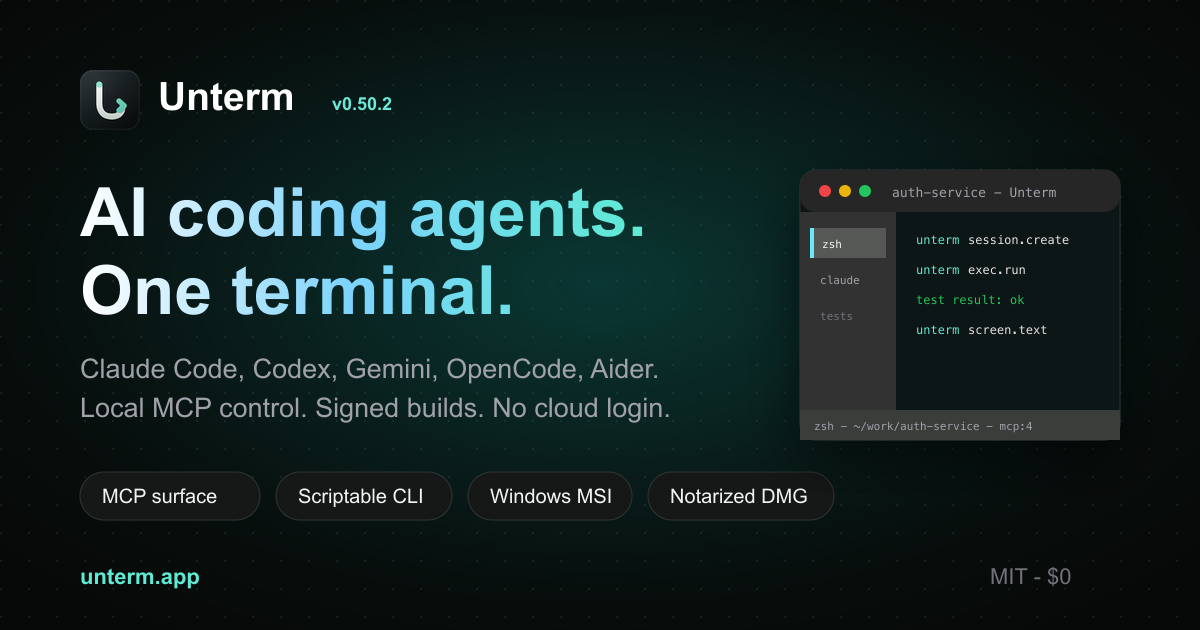
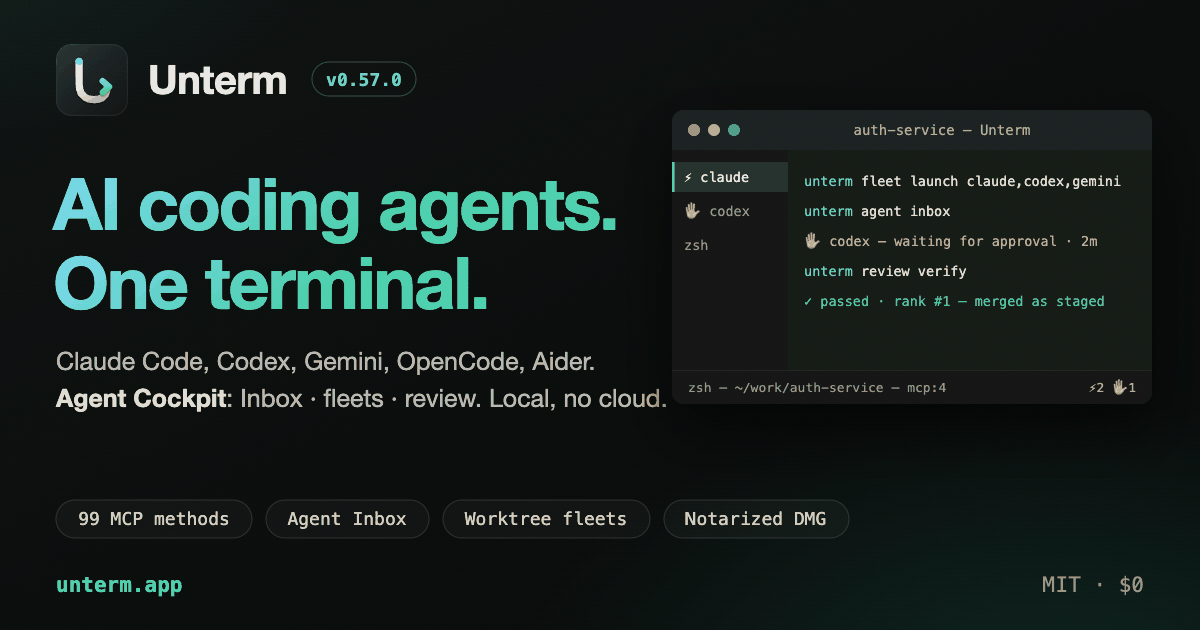
chore: release v0.57.0
Fleet 验证闭环(verify/rank/retry/门禁 merge)+ command-loop 新品牌
+ 侧栏项目分组导航。官网/README/参考文档对齐 99 方法新 surface,
og 卡与全套 favicon 换新 mark。

diff --git a/web/src/lib/stats.ts b/web/src/lib/stats.ts
@@ -41,7 +41,7 @@ export interface Stats {
 // `releases/latest/download/Unterm-macos-${stats.release}.dmg`; if this
 // fallback drifts from the published asset names, users hit a 404 when the
 // GitHub API fetch fails at build time.
-const FALLBACK: Stats = { stars: null, downloads: null, release: "v0.56.0" };
+const FALLBACK: Stats = { stars: null, downloads: null, release: "v0.57.0" };
 
 let cache: Promise<Stats> | null = null;
 

diff --git a/web/src/pages/docs/mcp-reference.md b/web/src/pages/docs/mcp-reference.md
@@ -6,7 +6,7 @@ kicker: Docs / MCP reference
 date: 2026-07-20
 ---
 
-This page documents every JSON-RPC method an MCP client can call against a running Unterm instance — 97 methods across 21 namespaces as of v0.55. The dispatch table lives in `wezterm-gui/src/mcp/handler.rs`; the connection handshake is in `wezterm-gui/src/mcp/server.rs`. Both are MIT-licensed in the public repo. For a machine-readable version of this page, call [`meta.surface`](#meta) or run `unterm-cli reference` in any shell.
+This page documents every JSON-RPC method an MCP client can call against a running Unterm instance — 99 methods across 21 namespaces as of v0.55. The dispatch table lives in `wezterm-gui/src/mcp/handler.rs`; the connection handshake is in `wezterm-gui/src/mcp/server.rs`. Both are MIT-licensed in the public repo. For a machine-readable version of this page, call [`meta.surface`](#meta) or run `unterm-cli reference` in any shell.
 
 For higher-level patterns (director/worker, multi-pane orchestration, recording for review) see the [agent integration guide](agent-integration). This page is the wire-level companion — the doc you check when your client got back `-32603` and you want to know which field you fat-fingered.
 
@@ -894,7 +894,7 @@ Every tracked agent joined with its tab/window location, sorted waiting-first, s
 
 Run one task across N agents in N isolated git worktrees, one tab each. `fleet.launch` adds a worktree + branch per member beside the repo (`../<repo>.fleet/<fleet-id>-<n>/`, branch `fleet/<fleet-id>-<n>`), opens a tab per member, and types the agent's launch command into the fresh shell. Fleets persist in `~/.unterm/fleets.json`, so the Review page and `fleet.clean` survive a restart — panes dying does *not* remove a fleet; the worktrees hold the work product until every member is merged or discarded.
 
-`fleet.launch` and `fleet.clean` are audited write operations — they appear in `session.audit_log` — and member panes are subject to the same PTY-write gate as `session.input` (the launch command is typed into a pane).
+`fleet.launch`, `fleet.retry`, and `fleet.clean` are audited write operations — they appear in `session.audit_log` — and member panes are subject to the same PTY-write gate as `session.input` (the launch command is typed into a pane).
 
 ### `fleet.launch`
 
@@ -923,7 +923,7 @@ Built-in launch commands: `claude <task>`, `codex <task>`, `gemini -i <task>`, `
  ]}
 ```
 
-`checkpoint` is the base HEAD sha — the review baseline for `review.diff`. A member whose tab failed to spawn gets `pane_id: null` but keeps its worktree.
+`checkpoint` is the base HEAD sha — the review baseline for `review.diff`. A member whose tab failed to spawn gets `pane_id: null` but keeps its worktree — relaunch it with `fleet.retry`.
 
 ### `fleet.list`
 
@@ -931,7 +931,7 @@ All fleets with member branches, worktrees, and review states.
 
 **Params:** none.
 
-**Returns:** `{ fleets: [...] }` — same fleet shape as `review.list` below, i.e. each member carries `n` (1-based index), `agent`, `branch`, `worktree`, `checkpoint`, `review` (`"pending"` / `"merged"` / `"discarded"`), `pane_id`, and `agent_state` (live cockpit state, or `null` if the pane is gone).
+**Returns:** `{ fleets: [...] }` — same fleet shape as `review.list` below, i.e. each member carries `n` (1-based index), `agent`, `branch`, `worktree`, `checkpoint`, `review` (`"pending"` / `"merged"` / `"discarded"`), `pane_id`, `agent_state` (live cockpit state, or `null` if the pane is gone), `attempt` (launch count, incremented by `fleet.retry`), `last_started_at`, and `last_launch_error` (most recent pane-spawn failure; `null` after a successful launch/retry).
 
 ### `fleet.clean`
 
@@ -941,13 +941,33 @@ Remove a fleet: kill surviving panes, remove worktrees and branches, drop the re
 
 **Returns:** `{ ok: true, id }`
 
+### `fleet.retry`
+
+Restart a failed or stalled member in its **existing** isolated worktree — after a crashed agent, a closed tab, or a member whose tab never spawned. The worktree, branch, and checkpoint are retained, along with every committed, staged, unstaged, and untracked change; only the pane association is replaced, so a retry never deletes or resets work. The member's previous pane (if any) is closed before the new agent starts, so two processes never edit the same worktree concurrently. Audited.
+
+Only `pending` members can be retried — `merged`/`discarded` ones error. The call also errors if the worktree no longer exists or is no longer on the member's fleet branch. The new attempt is persisted *before* the tab is spawned: if spawning fails, the member shows `pane_id: null` with the error in `last_launch_error`, and can simply be retried again.
+
+**Params:**
+
+| Name | Type | Required | Description |
+|---|---|---|---|
+| `fleet_id` | string | yes | Fleet id |
+| `member` | string | yes | 1-based member index (`"2"`) or branch name / suffix |
+
+**Returns:** the updated member record — the `fleet.launch` member shape plus `attempt` (launch count, incremented on every retry), `last_started_at` (RFC 3339 timestamp of the latest launch/retry), and `last_launch_error` (`null` after a successful retry).
+
+```json
+{"jsonrpc":"2.0","id":12,"method":"fleet.retry",
+ "params":{"fleet_id":"fix-the-login-bug","member":"1"}}
+```
+
 ---
 
 ## Review
 
 Checkpoints, diffs, rollback, and merge for agent-produced changes. Two kinds of baseline feed this namespace: fleet members diff against their worktree's start commit, and "loose" (non-fleet) agent runs get automatic checkpoints — whenever the cockpit sees an agent start working in a repo, it snapshots the entire worktree (tracked + untracked) as a dangling commit via a temporary index, without ever touching HEAD, the real index, or the files. The last 20 checkpoints per repo are remembered in `~/.unterm/checkpoints.json`, debounced to one per minute.
 
-`review.rollback` and `review.merge` are **audited write operations** — every call lands in `session.audit_log` with the repo/fleet detail, and both mutate the working tree, so treat them with the same care as any policy-gated write. `review.rollback` is destructive by design; confirm with the user before calling it.
+`review.rollback`, `review.merge`, and `review.verify` are **audited operations** — every call lands in `session.audit_log` with the repo/fleet detail. `review.rollback` and `review.merge` mutate the working tree, so treat them with the same care as any policy-gated write; `review.verify` executes a command in the member's worktree. `review.rollback` is destructive by design; confirm with the user before calling it.
 
 ### `review.list`
 
@@ -955,7 +975,7 @@ Review overview — everything the Review page needs in one call.
 
 **Params:** none.
 
-**Returns:** `{ fleets: [...], checkpoints: [{ repo, checkpoints: [{ sha, at, agent, pane_id }] }] }` — fleets in the shape described under `fleet.list`, checkpoints newest-first per repo.
+**Returns:** `{ fleets: [...], checkpoints: [{ repo, checkpoints: [{ sha, at, agent, pane_id }] }] }` — fleets in the shape described under `fleet.list`, checkpoints newest-first per repo. Unlike `fleet.list`, each member is additionally enriched with its latest `verification` record (or `null`), a deterministic `score` (verification status dominates; smaller diffs break ties), and a 1-based `rank` within the fleet — this is also how you poll a `review.verify` run for completion.
 
 ### `review.diff`
 
@@ -977,6 +997,41 @@ Line-level diff of a worktree against a checkpoint. Untracked files are synthesi
  "params":{"fleet_id":"fix-the-login-bug","member":"1"}}
 ```
 
+### `review.verify`
+
+Run a validation command asynchronously in a fleet member's isolated worktree — the evidence behind the `review.merge` gate. With no `command`, a conventional one is inferred from a small, auditable set of project markers; Unterm never executes scripts discovered by scanning source files:
+
+| Marker | Inferred command |
+|---|---|
+| `Cargo.toml` | `cargo test` |
+| `go.mod` | `go test ./...` |
+| `pnpm-lock.yaml` / `yarn.lock` / `package-lock.json` or `package.json` | `pnpm test` / `yarn test` / `npm test` — only if `package.json` has a non-empty `scripts.test` |
+| `uv.lock` | `uv run pytest` |
+| `pyproject.toml`, `pytest.ini`, or `setup.cfg` | `python -m pytest` |
+| `pom.xml` | `mvn test` |
+| `gradlew` / `gradlew.bat` | `./gradlew test` (`gradlew.bat test` on Windows) |
+| `*.sln` / `*.csproj` | `dotnet test` |
+
+If nothing matches, the call errors and asks for an explicit command.
+
+The call returns immediately with a `pending` record; the command runs on a worker thread in the worktree (via `sh -c` on Unix, `cmd.exe /C` on Windows). Status flows `pending → running → passed | failed | timed_out` — `passed` means exit code 0. On timeout the **entire process tree** is killed (process-group `SIGKILL` on Unix, `taskkill /T /F` on Windows), so hung test suites can't leak children. The captured stdout+stderr log is bounded to the last 64 KiB. Records persist in `~/.unterm/verifications.json`; runs left in-flight when Unterm exits are marked `failed` on the next start. Audited.
+
+**Params:**
+
+| Name | Type | Required | Description |
+|---|---|---|---|
+| `fleet_id` | string | yes | Fleet id |
+| `member` | string | yes | 1-based member index or branch name / suffix |
+| `command` | string | no | Explicit validation command; takes precedence over inference. Must be non-empty |
+| `timeout_secs` | number | no | Default 900 (15 min), clamped to 1–7200 (2 h) |
+
+**Returns:** the verification record: `{ id, fleet_id, member, worktree, command, inferred, status, exit_code, duration_ms, log, started_at, finished_at }` — `member` is normalized to the branch name, `inferred` says whether the command came from marker inference. Poll `review.list` for completion: each member there carries its latest `verification` record.
+
+```json
+{"jsonrpc":"2.0","id":13,"method":"review.verify",
+ "params":{"fleet_id":"fix-the-login-bug","member":"1","timeout_secs":600}}
+```
+
 ### `review.rollback`
 
 Restore a repo's worktree to a checkpoint: files *and* untracked state become exactly the snapshot's content (`git clean -fd` removes files that didn't exist then). Destructive for anything newer than the checkpoint — confirm first. The sha is validated before anything runs, so a typo can't half-execute. Audited.
@@ -989,9 +1044,11 @@ Restore a repo's worktree to a checkpoint: files *and* untracked state become ex
 
 Squash-merge a fleet member's branch into the base repo, leaving the result **staged, not committed** — the user owns the commit. The base repo must be clean, or the call errors. Marks the member `merged`. Audited.
 
-**Params:** `fleet_id` (string, required), `member` (string, required — index or branch name).
+**Verification gate:** a normal merge requires the member's *latest* verification (`review.verify`) to be `passed` — an unverified member, or one whose latest run is `failed`/`timed_out`/still running, errors instead of merging. `force: true` overrides the gate and merges anyway; the override is deliberately surfaced only through this audited API/CLI path (the Review UI stays gated), and the response records both the override and whatever verification record exists.
 
-**Returns:** `{ ok: true, fleet, branch, staged_in }`
+**Params:** `fleet_id` (string, required), `member` (string, required — index or branch name), `force` (bool, optional, default `false` — merge without a passed verification).
+
+**Returns:** `{ ok: true, fleet, branch, base_head, member_head, merged_at, staged_files, staged_in, verification, verification_forced }` — `verification` is the verification record the merge was gated on (the latest record or `null` when forced without one), `verification_forced` echoes `force`.
 
 ### `review.discard`
 
@@ -1079,8 +1136,8 @@ Machine-readable capability map: one key per namespace, each value a list of ful
   "exec": ["exec.run", "exec.send", "exec.run_wait", "exec.status", "exec.cancel"],
   "agent": ["agent.identify", "agent.whoami", ..., "agent.status", "agent.signal"],
   "cockpit": ["cockpit.inbox"],
-  "fleet": ["fleet.launch", "fleet.list", "fleet.clean"],
-  "review": ["review.list", "review.diff", "review.rollback", "review.merge", "review.discard"],
+  "fleet": ["fleet.launch", "fleet.list", "fleet.clean", "fleet.retry"],
+  "review": ["review.list", "review.diff", "review.verify", "review.rollback", "review.merge", "review.discard"],
   "...": ["..."]
 }
 ```
@@ -1202,6 +1259,7 @@ Every method, alphabetical, with one-line descriptions. Use this as a flat looku
 | `fleet.clean` | Remove a fleet's worktrees, branches, and panes once reviewed |
 | `fleet.launch` | One task × N agents × N isolated git worktrees, one tab each |
 | `fleet.list` | All fleets with member branches, worktrees, and review states |
+| `fleet.retry` | Restart a pending fleet member in its existing worktree without losing changes |
 | `ghost.debug` | Read-only ghost-text predictor state for a pane |
 | `instance.focus` | Raise this instance's window to the foreground (stub on v0.9) |
 | `instance.info` | This instance's own metadata, including `auth_token` |
@@ -1231,8 +1289,9 @@ Every method, alphabetical, with one-line descriptions. Use this as a flat looku
 | `review.diff` | Line-level diff of a worktree vs a checkpoint, untracked files included |
 | `review.discard` | Mark a fleet member's work as discarded (removed on `fleet.clean`) |
 | `review.list` | Review overview: fleets + auto checkpoints per repo |
-| `review.merge` | Squash-merge a fleet member into the base repo, leaving it staged (audited write) |
+| `review.merge` | Squash-merge a fleet member into the base repo, leaving it staged (verification-gated, audited write) |
 | `review.rollback` | Restore a repo's worktree to a checkpoint (destructive, audited write) |
+| `review.verify` | Run an async verification command in a fleet member's worktree (audited) |
 | `screen.cursor` | Cursor position and shape |
 | `screen.detect_errors` | Hardcoded error-pattern scan over the visible viewport |
 | `screen.read` | Visible viewport with absolute row indices |
@@ -1278,4 +1337,4 @@ Every method, alphabetical, with one-line descriptions. Use this as a flat looku
 | `workspace.restore` | Open new tabs from a saved workspace; supports dry-run planning |
 | `workspace.save` | Snapshot the current set of panes |
 
-That's 97 methods plus `auth.login`. If you find a method in the codebase that isn't listed here, file an issue — the `MCP_METHODS` table behind `meta.surface` (dispatched in `wezterm-gui/src/mcp/handler.rs`) is the source of truth and this page should track it.
+That's 99 methods plus `auth.login`. If you find a method in the codebase that isn't listed here, file an issue — the `MCP_METHODS` table behind `meta.surface` (dispatched in `wezterm-gui/src/mcp/handler.rs`) is the source of truth and this page should track it.

diff --git a/web/src/pages/docs/cli-reference.md b/web/src/pages/docs/cli-reference.md
@@ -708,12 +708,13 @@ Only agents actually present are touched (`~/.claude` exists, `~/.codex` exists,
 
 ## fleet
 
-Run one task across N agents in N isolated git worktrees — the Agent Cockpit's parallel-attempts primitive. `fleet launch` verifies the repo is clean, creates one branch and worktree per member, and opens one tab per member with the agent already running on the task. Backed by MCP `fleet.launch`, `fleet.list`, and `fleet.clean`.
+Run one task across N agents in N isolated git worktrees — the Agent Cockpit's parallel-attempts primitive. `fleet launch` verifies the repo is clean, creates one branch and worktree per member, and opens one tab per member with the agent already running on the task. Backed by MCP `fleet.launch`, `fleet.list`, `fleet.clean`, and `fleet.retry`.
 
 ```text
 unterm-cli fleet launch --agents <a,b,...> [--cwd DIR] <TASK...>
 unterm-cli fleet list
 unterm-cli fleet clean <ID> [--force]
+unterm-cli fleet retry  --fleet <ID> --member <N|BRANCH>
 ```
 
 ### `fleet launch`
@@ -754,14 +755,31 @@ $ unterm-cli fleet clean fix-the-login-redirect-loop
 fleet fix-the-login-redirect-loop cleaned
 ```
 
+### `fleet retry`
+
+Restarts a `pending` member's agent in its **existing** worktree. The branch, checkpoint, and every committed *and* uncommitted change are kept — only the pane is replaced. The old pane is closed before the new agent starts, so two processes never edit the same worktree concurrently. Each retry bumps the member's `attempt` counter (visible in `fleet list --json`).
+
+```sh
+$ unterm-cli fleet retry --fleet fix-the-login-redirect-loop --member 2
+retried member 2 of fix-the-login-redirect-loop (attempt 2)
+```
+
+| Flag | Purpose |
+|---|---|
+| `--fleet <ID>` | Required. Fleet id from `fleet list`. |
+| `--member <N\|BRANCH>` | Required. Member index (1-based) or branch name. |
+
+A member that is already `merged` or `discarded` cannot be retried, and the retry refuses if the worktree no longer exists or has been switched off its `fleet/…` branch. If spawning the new pane fails, the error is recorded on the member (`last_launch_error` in `--json`) and the member simply has no active pane — retry again once the cause is fixed.
+
 ## review
 
-Inspect, merge, discard, or roll back agent-produced changes. Two kinds of things live here: fleet members (from `fleet launch`) and **auto checkpoints** — whenever an agent starts working in a non-fleet pane, the cockpit snapshots that repo as a dangling commit object, debounced to one per minute per repo. The snapshot uses a temporary index, so your working tree and staging area are never touched; the checkpoint index lives at `~/.unterm/checkpoints.json`, and the whole mechanism is gated by the `cockpit_auto_checkpoint` config option. Backed by MCP `review.list`, `review.diff`, `review.merge`, `review.discard`, and `review.rollback`.
+Inspect, merge, discard, or roll back agent-produced changes. Two kinds of things live here: fleet members (from `fleet launch`) and **auto checkpoints** — whenever an agent starts working in a non-fleet pane, the cockpit snapshots that repo as a dangling commit object, debounced to one per minute per repo. The snapshot uses a temporary index, so your working tree and staging area are never touched; the checkpoint index lives at `~/.unterm/checkpoints.json`, and the whole mechanism is gated by the `cockpit_auto_checkpoint` config option. Backed by MCP `review.list`, `review.diff`, `review.verify`, `review.merge`, `review.discard`, and `review.rollback`.
 
 ```text
 unterm-cli review list
 unterm-cli review diff     (--fleet <ID> --member <N|BRANCH>) | (--repo <PATH> --from <SHA>) [--stat]
-unterm-cli review merge    --fleet <ID> --member <N|BRANCH>
+unterm-cli review verify   --fleet <ID> --member <N|BRANCH> [--command CMD] [--timeout-secs N]
+unterm-cli review merge    --fleet <ID> --member <N|BRANCH> [--force]
 unterm-cli review discard  --fleet <ID> --member <N|BRANCH>
 unterm-cli review rollback --repo <PATH> --sha <SHA> --yes
 unterm-cli review open
@@ -790,14 +808,53 @@ $ unterm-cli review diff --fleet fix-the-login-redirect-loop --member 2 --stat
   +3     -0     tests/login.rs (new)
 ```
 
+### `review verify`
+
+Queues tests/validation for a fleet member, run **asynchronously** inside the member's isolated worktree. Without `--command`, the command is inferred from a small, auditable set of project markers; inference only reads marker files, never executes scripts discovered in the source tree. If nothing matches, the CLI errors and asks for an explicit `--command`.
+
+| Marker | Inferred command |
+|---|---|
+| `Cargo.toml` | `cargo test` |
+| `go.mod` | `go test ./...` |
+| `pnpm-lock.yaml` | `pnpm test` |
+| `yarn.lock` | `yarn test` |
+| `package-lock.json` / `package.json` | `npm test` |
+| `uv.lock` | `uv run pytest` |
+| `pyproject.toml` / `pytest.ini` / `setup.cfg` | `python -m pytest` |
+| `pom.xml` | `mvn test` |
+| `gradlew` | `./gradlew test` (`gradlew.bat test` on Windows) |
+| `*.sln` / `*.csproj` | `dotnet test` |
+
+The npm/pnpm/yarn rows additionally require a non-empty `test` script in `package.json` — a placeholder-only project infers nothing rather than running a script that exits 1.
+
+```sh
+$ unterm-cli review verify --fleet fix-the-login-redirect-loop --member 2
+verification verify-1753100000000-0 queued: cargo test
+```
+
+| Flag | Purpose |
+|---|---|
+| `--fleet <ID>` | Required. |
+| `--member <N\|BRANCH>` | Required. Member index (1-based) or branch name. |
+| `--command <CMD>` | Explicit verification command; takes precedence over inference. |
+| `--timeout-secs <N>` | Deadline in seconds. Default 900 (15 min), clamped to a 2-hour maximum; on timeout the whole process tree is killed and the run is marked `timed_out`. |
+
+Each run persists to `~/.unterm/verifications.json`: status (`pending` → `running` → `passed`/`failed`/`timed_out`), exit code, duration, and the last 64 KiB of combined stdout+stderr. `review list --json` attaches each member's latest verification plus a deterministic `score` and `rank` — a passed verification dominates the score, smaller diffs break ties — so `rank == 1` is the merge candidate.
+
 ### `review merge` / `review discard`
 
-`merge` squash-merges a member's branch into the base repo and leaves the result **staged, uncommitted** — you own the commit message. The base repo must be clean first. `discard` marks the member reviewed-and-rejected; its branch and worktree stay on disk until `fleet clean`.
+`merge` squash-merges a member's branch into the base repo and leaves the result **staged, uncommitted** — you own the commit message. The base repo must be clean first. **Verification gate:** a normal merge requires the member's *latest* verification to be `passed`; an unverified member, or one whose latest run failed or timed out, is refused with a pointer to `review verify`. `--force` overrides the gate — the override is audited, and the JSON result carries `"verification_forced": true` alongside whatever verification record existed. `discard` marks the member reviewed-and-rejected; its branch and worktree stay on disk until `fleet clean`.
 
 ```sh
 $ unterm-cli review merge --fleet fix-the-login-redirect-loop --member 2
 merged fleet/fix-the-login-redirect-loop-2 — staged in /Users/alexlee/src/app (commit it yourself)
 ```
+
+| Flag | Purpose |
+|---|---|
+| `--fleet <ID>` | Required. |
+| `--member <N\|BRANCH>` | Required. Member index (1-based) or branch name. |
+| `--force` | `merge` only. Override the passed-verification gate. This action is audited. |
 
 ### `review rollback`
 
@@ -1220,7 +1277,7 @@ For simple pane IO, prefer `unterm-cli session input` and `unterm-cli session te
 
 ### Race three agents on one bug, keep the best diff
 
-The full fleet loop, scripted: launch, wait until no member is still working, compare the attempts, merge the winner, clean up.
+The full fleet loop, scripted: launch, wait until no member is still working, verify every attempt, then let the ranked review pick the winner — no eyeballing required.
 
 ```sh
 #!/usr/bin/env bash
@@ -1236,20 +1293,35 @@ while unterm-cli --json fleet list \
   sleep 30
 done
 
-# Eyeball the three attempts.
+# Run tests in every member's worktree (command inferred: cargo test, npm test, …).
 for n in 1 2 3; do
-  echo "===== member $n ====="
-  unterm-cli review diff --fleet "$FLEET" --member "$n" --stat
+  unterm-cli review verify --fleet "$FLEET" --member "$n"
 done
 
-# Merge the winner (staged, not committed), discard the rest, tear down.
-unterm-cli review merge   --fleet "$FLEET" --member 2
-unterm-cli review discard --fleet "$FLEET" --member 1
-unterm-cli review discard --fleet "$FLEET" --member 3
+# Block until no verification is still pending or running.
+while unterm-cli --json review list \
+  | jq -e --arg f "$FLEET" \
+      '.fleets[] | select(.id == $f) | .members[]
+       | select(.verification.status == "pending" or .verification.status == "running")' \
+      >/dev/null; do
+  sleep 15
+done
+
+# rank 1 = best candidate: latest verification passed, smallest diff wins ties.
+BEST=$(unterm-cli --json review list \
+  | jq -r --arg f "$FLEET" \
+      '.fleets[] | select(.id == $f) | .members[] | select(.rank == 1) | .n')
+unterm-cli review diff --fleet "$FLEET" --member "$BEST" --stat
+
+# Merge the winner (gated on its passed verification), discard the rest, tear down.
+unterm-cli review merge --fleet "$FLEET" --member "$BEST"
+for n in 1 2 3; do
+  [ "$n" = "$BEST" ] || unterm-cli review discard --fleet "$FLEET" --member "$n"
+done
 unterm-cli fleet clean "$FLEET"
 ```
 
-Note the "wait" condition uses the cockpit state, which is exact when `agent enable-hooks` has been run — a member that stops to ask a question shows `waiting`, not `working`, so the loop exits and you can go answer it. `review merge` leaves the squash staged in the base repo; commit it with your own message.
+Note the "wait" condition uses the cockpit state, which is exact when `agent enable-hooks` has been run — a member that stops to ask a question shows `waiting`, not `working`, so the loop exits and you can go answer it. The merge is verification-gated: if even the rank-1 member's tests failed, `review merge` refuses rather than staging broken code (use `fleet retry` to give that member another attempt in the same worktree, or `--force` if you know better — the override is audited). `review merge` leaves the squash staged in the base repo; commit it with your own message.
 
 ### Notify when any agent wants attention
 

diff --git a/CHANGELOG.md b/CHANGELOG.md
@@ -1,6 +1,6 @@
 # Changelog
 
-## Unreleased
+## v0.57.0 — 2026-07-21
 
 ### Added — Fleet verification loop
 
@@ -15,6 +15,10 @@
 
 - **Windows checkpoint diffs include untracked files correctly.** The platform now passes exactly one null device when generating synthetic patches. Rollback verifies the restored Git tree, and merge responses include commit and staged-file audit data.
 - **Right-click copy and paste target the clicked pane again.** Split-pane clicks no longer re-resolve to a stale active pane, and Windows clipboard reads once again start on the event-loop thread instead of silently failing on a worker.
+
+### Changed
+
+- **New command-loop brand mark.** The app icon and every logo surface (macOS .icns, Windows .ico, Linux hicolor ladder, sidebar / titlebar marks, website favicons and social card) move to the command-loop terminal mark — a metal U-loop with a jade prompt chevron on the dark tile.
 
 ## v0.56.0 — 2026-07-21
 
